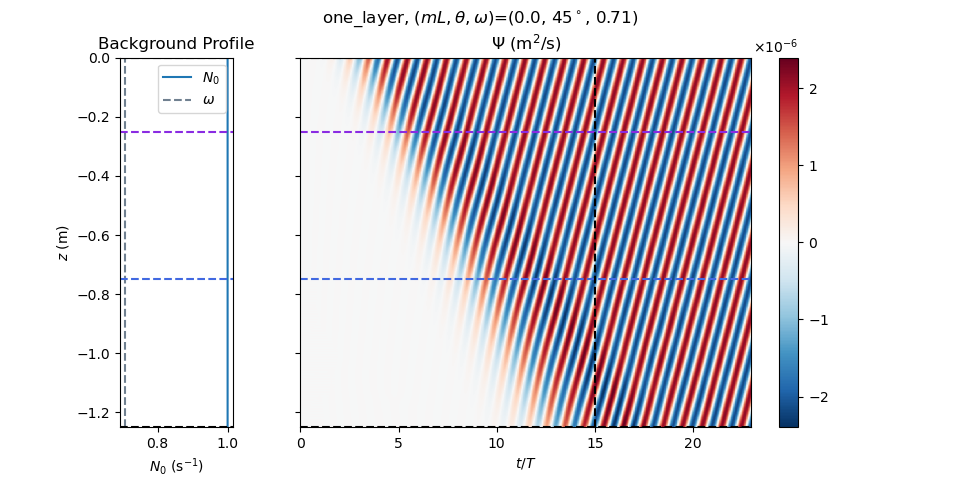
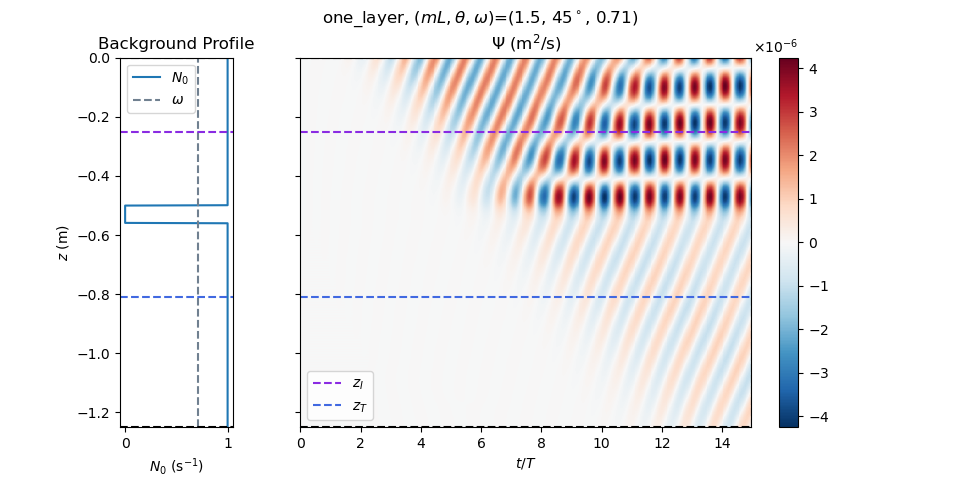
Added legend for z_I and z_T on z vs t plot

diff --git a/_experiments/nice_plots/helper_functions.py b/_experiments/nice_plots/helper_functions.py
@@ -399,9 +399,9 @@ def add_lines_to_ax(ax, z_I=None, z_T=None, z0_dis=None, zf_dis=None, T_cutoff=N
     """
     # Horizontal lines for incident and transmission depths
     if z_I != None: # separated to allow for plotting of I_ and T_ separately
-        ax.axhline(y=z_I, color=my_clrs['incident'], linestyle='--')
+        ax.axhline(y=z_I, color=my_clrs['incident'], linestyle='--', label=r'$z_I$')
     if z_T != None:
-        ax.axhline(y=z_T, color=my_clrs['transmission'], linestyle='--')
+        ax.axhline(y=z_T, color=my_clrs['transmission'], linestyle='--', label=r'$z_T$')
     # Horizontal lines for display depths
     if z0_dis != None and zf_dis != None:
         line_color = my_clrs['black']
@@ -428,7 +428,7 @@ def set_plot_bounds(ax, plot_full_x, plot_full_y, z_array=None, z0_dis=None, zf_
     """
     if plot_full_x:
         if isinstance(t_array, np.ndarray) and T != None:
-            ax.set_xlim([t_array[0]/T,t_array[-1]/T])
+            ax.set_xlim([t_array[0]/T,t_array[-1]/T-8])
     else:
         if isinstance(t_array, np.ndarray) and T != None and T_cutoff != None:
             ax.set_xlim([T_cutoff,t_array[-1]/T])
@@ -536,6 +536,8 @@ def plot_z_vs_t(z_array, t_array, T, data, BP_array, mL, theta, omega, z_I=None,
     add_lines_to_ax(axes[0], z_I=z_I, z_T=z_T, z0_dis=z0_dis, zf_dis=zf_dis)
     # Add straight lines to wavefield plot
     add_lines_to_ax(axes[1], z_I=z_I, z_T=z_T, z0_dis=z0_dis, zf_dis=zf_dis, T_cutoff=T_cutoff)
+    # Add legend for horizontal lines
+    axes[1].legend(loc='lower left')
     # Set plot bounds to include full domain or not
     set_plot_bounds(axes[0], plot_full_x, plot_full_y, z_array=z_array, z0_dis=z0_dis, zf_dis=zf_dis)
     set_plot_bounds(axes[1], plot_full_x, plot_full_y, z_array=z_array, z0_dis=z0_dis, zf_dis=zf_dis, t_array=t_array, T=T, T_cutoff=T_cutoff)

diff --git a/_experiments/nice_plots/post_process.py b/_experiments/nice_plots/post_process.py
@@ -187,8 +187,8 @@ if sbp.plot_up_dn:
 up_field, dn_field = hfCD.Complex_Demodulate(t_then_z, t, z, kz, psi, dt, omega)
 # Full domain
 if sbp.plot_up_dn:
-    hf.plot_z_vs_t(z, t, T, up_field.real, BP_array, mL, theta, omega, z_I=z_I, z_T=z_T, z0_dis=z0_dis, zf_dis=zf_dis,  plot_full_x=True, plot_full_y=True, T_cutoff=T_cutoff, title_str=run_name+' up', filename=filename_prefix+'_up.png')
-    hf.plot_z_vs_t(z, t, T, dn_field.real, BP_array, mL, theta, omega, z_I=z_I, z_T=z_T, z0_dis=z0_dis, zf_dis=zf_dis, plot_full_x=True, plot_full_y=True, T_cutoff=T_cutoff, title_str=run_name+' dn', filename=filename_prefix+'_dn.png')
+    hf.plot_z_vs_t(z, t, T, up_field.real, BP_array, mL, theta, omega, z_I=z_I, z_T=z_T, z0_dis=z0_dis, zf_dis=zf_dis,  plot_full_x=plt_f_x, plot_full_y=plt_f_y, T_cutoff=T_cutoff, title_str=run_name+' up', filename=filename_prefix+'_up.png')
+    hf.plot_z_vs_t(z, t, T, dn_field.real, BP_array, mL, theta, omega, z_I=z_I, z_T=z_T, z0_dis=z0_dis, zf_dis=zf_dis, plot_full_x=plt_f_x, plot_full_y=plt_f_y, T_cutoff=T_cutoff, title_str=run_name+' dn', filename=filename_prefix+'_dn.png')
 
 ###############################################################################
 # Multiply the downward wavefield by it's complex-conjugate to get AA^*

diff --git a/post_process.py b/post_process.py
@@ -187,8 +187,8 @@ if sbp.plot_up_dn:
 up_field, dn_field = hfCD.Complex_Demodulate(t_then_z, t, z, kz, psi, dt, omega)
 # Full domain
 if sbp.plot_up_dn:
-    hf.plot_z_vs_t(z, t, T, up_field.real, BP_array, mL, theta, omega, z_I=z_I, z_T=z_T, z0_dis=z0_dis, zf_dis=zf_dis,  plot_full_x=True, plot_full_y=True, T_cutoff=T_cutoff, title_str=run_name+' up', filename=filename_prefix+'_up.png')
-    hf.plot_z_vs_t(z, t, T, dn_field.real, BP_array, mL, theta, omega, z_I=z_I, z_T=z_T, z0_dis=z0_dis, zf_dis=zf_dis, plot_full_x=True, plot_full_y=True, T_cutoff=T_cutoff, title_str=run_name+' dn', filename=filename_prefix+'_dn.png')
+    hf.plot_z_vs_t(z, t, T, up_field.real, BP_array, mL, theta, omega, z_I=z_I, z_T=z_T, z0_dis=z0_dis, zf_dis=zf_dis,  plot_full_x=plt_f_x, plot_full_y=plt_f_y, T_cutoff=T_cutoff, title_str=run_name+' up', filename=filename_prefix+'_up.png')
+    hf.plot_z_vs_t(z, t, T, dn_field.real, BP_array, mL, theta, omega, z_I=z_I, z_T=z_T, z0_dis=z0_dis, zf_dis=zf_dis, plot_full_x=plt_f_x, plot_full_y=plt_f_y, T_cutoff=T_cutoff, title_str=run_name+' dn', filename=filename_prefix+'_dn.png')
 
 ###############################################################################
 # Multiply the downward wavefield by it's complex-conjugate to get AA^*

diff --git a/_experiments/nice_plots/one_layer/one_layer_switchboard.py b/_experiments/nice_plots/one_layer/one_layer_switchboard.py
@@ -15,7 +15,7 @@ from . import params
 
 # Relevant parameters
 nz      = 1024                  # [] number of grid points in the z direction in display domain
-mL      = params.mL             # [] vertical wave number times step length
+mL      = 1.5#params.mL             # [] vertical wave number times step length
 theta   = None                  # [] angle between wave's propagation and horizontal (or vertical?)
 
 # Time parameters
@@ -89,11 +89,11 @@ boundary_forcing_region = True  # If False, waves will be forced over entire dom
 
 # Plotting parameters
 plot_spacetime = True
-plot_wavespace = True
-plot_spectra   = True
-plot_amplitude = True
-plot_windows   = True
-plot_up_dn     = True
+plot_wavespace = False
+plot_spectra   = False
+plot_amplitude = False
+plot_windows   = False
+plot_up_dn     = False
 # If true, plot will include full simulated domain, if false, just the display domain
 plot_full_x = True
 plot_full_y = False

diff --git a/_experiments/nice_plots/switchboard.py b/_experiments/nice_plots/switchboard.py
@@ -15,7 +15,7 @@ from . import params
 
 # Relevant parameters
 nz      = 1024                  # [] number of grid points in the z direction in display domain
-mL      = params.mL             # [] vertical wave number times step length
+mL      = 1.5#params.mL             # [] vertical wave number times step length
 theta   = None                  # [] angle between wave's propagation and horizontal (or vertical?)
 
 # Time parameters
@@ -89,11 +89,11 @@ boundary_forcing_region = True  # If False, waves will be forced over entire dom
 
 # Plotting parameters
 plot_spacetime = True
-plot_wavespace = True
-plot_spectra   = True
-plot_amplitude = True
-plot_windows   = True
-plot_up_dn     = True
+plot_wavespace = False
+plot_spectra   = False
+plot_amplitude = False
+plot_windows   = False
+plot_up_dn     = False
 # If true, plot will include full simulated domain, if false, just the display domain
 plot_full_x = True
 plot_full_y = False
